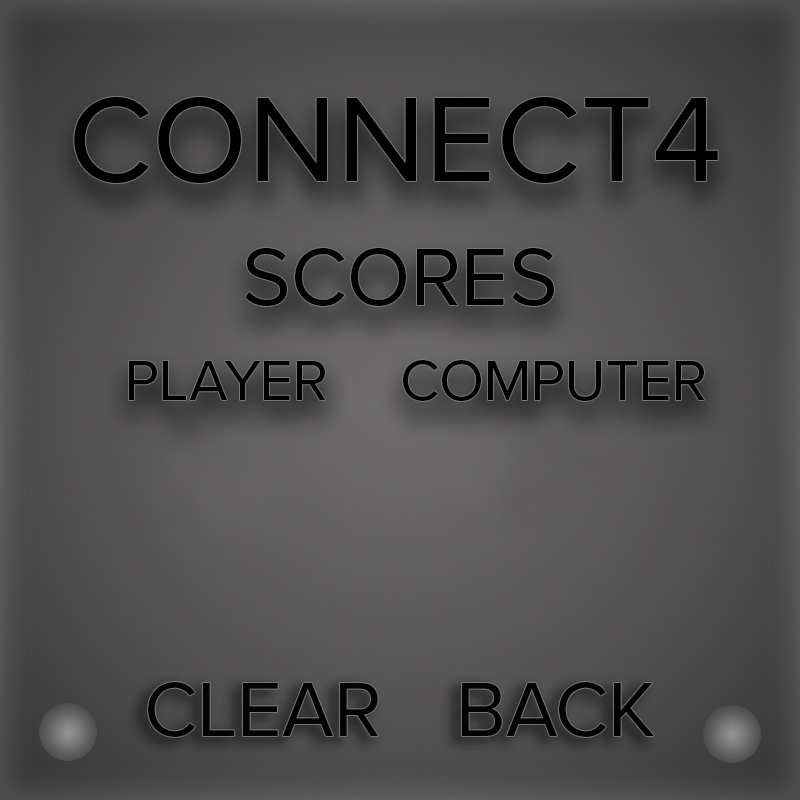
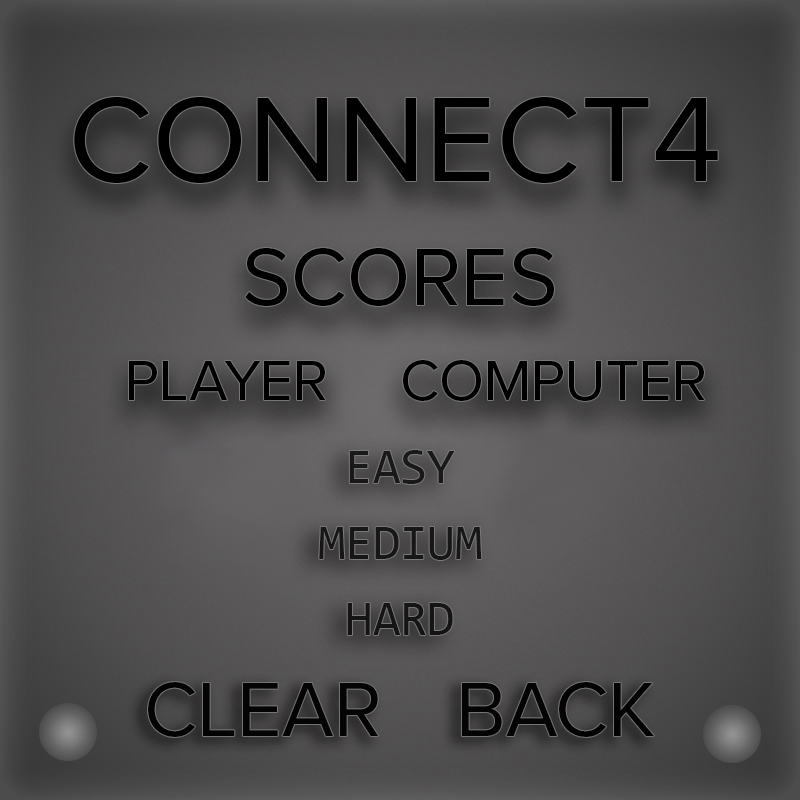
Graphic Update
Overhaul to the number output and updated score screen image.

Changed region(s): [[0.375, 0.6562, 0.625, 0.7188], [0.4062, 0.75, 0.5625, 0.8125], [0.4062, 0.5625, 0.5625, 0.625]]

diff --git a/201Project/src/ScorePanel.java b/201Project/src/ScorePanel.java
@@ -26,62 +26,122 @@ public class ScorePanel extends JLayeredPane {
 		
 		int[] scoreArray = Score.scoreArray();
 		
-		JLabel easyWins = new JLabel(Integer.toString(scoreArray[0]));
-		easyWins.setBounds(200, 410, 75, 75);
-		easyWins.setFont(new Font("Serif", Font.BOLD, 70));
-		easyWins.setForeground(Color.BLACK);
-		//printPlayerScore.setOpaque(true);
-		this.add(easyWins, JLayeredPane.DRAG_LAYER);
+		//Easy printout -------------------------------------------------------------
+		if(Integer.toString(scoreArray[0]).length() == 1){
+			JLabel printEasyWins = new JLabel(new ImageIcon("GUI_nums/" + Integer.toString(scoreArray[0]) + ".png"));
+			printEasyWins.setBounds(190, 430, 75, 75);
+			//printPlayerScore.setOpaque(true);
+			this.add(printEasyWins, JLayeredPane.DRAG_LAYER);
+		}
+		else if(Integer.toString(scoreArray[0]).length() == 2){
+			JLabel printEasyWins = new JLabel(new ImageIcon("GUI_nums/" + Integer.toString(scoreArray[0]).charAt(0) + ".png"));
+			printEasyWins.setBounds(170, 430, 75, 75);
+			//printPlayerScore.setOpaque(true);
+			this.add(printEasyWins, JLayeredPane.DRAG_LAYER);
+			
+			JLabel printEasyWins2 = new JLabel(new ImageIcon("GUI_nums/" + Integer.toString(scoreArray[0]).charAt(1) + ".png"));
+			printEasyWins2.setBounds(205, 430, 75, 75);
+			//printPlayerScore.setOpaque(true);
+			this.add(printEasyWins2, JLayeredPane.DRAG_LAYER);
+		}
+		else System.err.println("given player score not the correct length!");
 		
-		JLabel easyLosses = new JLabel(Integer.toString(scoreArray[1]));
-		easyLosses.setBounds(530, 410, 75, 75);
-		easyLosses.setFont(new Font("Serif", Font.BOLD, 70));
-		easyLosses.setForeground(Color.BLACK);
-		this.add(easyLosses, JLayeredPane.DRAG_LAYER);
+		if(Integer.toString(scoreArray[1]).length() == 1){
+			JLabel printEasyLosses = new JLabel(new ImageIcon("GUI_nums/" + Integer.toString(scoreArray[1]) + ".png"));
+			printEasyLosses.setBounds(520, 430, 75, 75);
+			//printPlayerScore.setOpaque(true);
+			this.add(printEasyLosses, JLayeredPane.DRAG_LAYER);
+		}
+		else if(Integer.toString(scoreArray[0]).length() == 2){
+			JLabel printEasyLosses = new JLabel(new ImageIcon("GUI_nums/" + Integer.toString(scoreArray[1]).charAt(0) + ".png"));
+			printEasyLosses.setBounds(505, 430, 75, 75);
+			//printPlayerScore.setOpaque(true);
+			this.add(printEasyLosses, JLayeredPane.DRAG_LAYER);
+			
+			JLabel printEasyLosses2 = new JLabel(new ImageIcon("GUI_nums/" + Integer.toString(scoreArray[1]).charAt(1) + ".png"));
+			printEasyLosses2.setBounds(540, 430, 75, 75);
+			//printPlayerScore.setOpaque(true);
+			this.add(printEasyLosses2, JLayeredPane.DRAG_LAYER);
+		}
+		else System.err.println("given player score not the correct length!");
 		
-		JLabel medWins = new JLabel(Integer.toString(scoreArray[2]));
-		medWins.setBounds(200, 480, 75, 75);
-		medWins.setFont(new Font("Serif", Font.BOLD, 70));
-		medWins.setForeground(Color.BLACK);
-		//printPlayerScore.setOpaque(true);
-		this.add(medWins, JLayeredPane.DRAG_LAYER);
+		//Medium printout -------------------------------------------------------------
+		if(Integer.toString(scoreArray[2]).length() == 1){
+			JLabel printMedWins = new JLabel(new ImageIcon("GUI_nums/" + Integer.toString(scoreArray[2]) + ".png"));
+			printMedWins.setBounds(190, 505, 75, 75);
+			//printPlayerScore.setOpaque(true);
+			this.add(printMedWins, JLayeredPane.DRAG_LAYER);
+		}
+		else if(Integer.toString(scoreArray[2]).length() == 2){
+			JLabel printMedWins = new JLabel(new ImageIcon("GUI_nums/" + Integer.toString(scoreArray[2]).charAt(0) + ".png"));
+			printMedWins.setBounds(170, 505, 75, 75);
+			//printPlayerScore.setOpaque(true);
+			this.add(printMedWins, JLayeredPane.DRAG_LAYER);
+			
+			JLabel printMedWins2 = new JLabel(new ImageIcon("GUI_nums/" + Integer.toString(scoreArray[2]).charAt(1) + ".png"));
+			printMedWins2.setBounds(205, 505, 75, 75);
+			//printPlayerScore.setOpaque(true);
+			this.add(printMedWins2, JLayeredPane.DRAG_LAYER);
+		}
+		else System.err.println("given player score not the correct length!");
 		
-		JLabel medLosses = new JLabel(Integer.toString(scoreArray[3]));
-		medLosses.setBounds(530, 480, 75, 75);
-		medLosses.setFont(new Font("Serif", Font.BOLD, 70));
-		medLosses.setForeground(Color.BLACK);
-		this.add(medLosses, JLayeredPane.DRAG_LAYER);
+		if(Integer.toString(scoreArray[3]).length() == 1){
+			JLabel printEasyLosses = new JLabel(new ImageIcon("GUI_nums/" + Integer.toString(scoreArray[3]) + ".png"));
+			printEasyLosses.setBounds(520, 505, 75, 75);
+			//printPlayerScore.setOpaque(true);
+			this.add(printEasyLosses, JLayeredPane.DRAG_LAYER);
+		}
+		else if(Integer.toString(scoreArray[3]).length() == 2){
+			JLabel printEasyLosses = new JLabel(new ImageIcon("GUI_nums/" + Integer.toString(scoreArray[3]).charAt(0) + ".png"));
+			printEasyLosses.setBounds(505, 505, 75, 75);
+			//printPlayerScore.setOpaque(true);
+			this.add(printEasyLosses, JLayeredPane.DRAG_LAYER);
+			
+			JLabel printEasyLosses2 = new JLabel(new ImageIcon("GUI_nums/" + Integer.toString(scoreArray[3]).charAt(1) + ".png"));
+			printEasyLosses2.setBounds(540, 505, 75, 75);
+			//printPlayerScore.setOpaque(true);
+			this.add(printEasyLosses2, JLayeredPane.DRAG_LAYER);
+		}
+		else System.err.println("given player score not the correct length!");
 		
-		JLabel hardWins = new JLabel(Integer.toString(scoreArray[4]));
-		hardWins.setBounds(200, 550, 75, 75);
-		hardWins.setFont(new Font("Serif", Font.BOLD, 70));
-		hardWins.setForeground(Color.BLACK);
-		//printPlayerScore.setOpaque(true);
-		this.add(hardWins, JLayeredPane.DRAG_LAYER);
+		//Hard printout -------------------------------------------------------------
+		if(Integer.toString(scoreArray[4]).length() == 1){
+			JLabel printHardWins = new JLabel(new ImageIcon("GUI_nums/" + Integer.toString(scoreArray[4]) + ".png"));
+			printHardWins.setBounds(190, 580, 75, 75);
+			//printPlayerScore.setOpaque(true);
+			this.add(printHardWins, JLayeredPane.DRAG_LAYER);
+		}
+		else if(Integer.toString(scoreArray[4]).length() == 2){
+			JLabel printHardWins = new JLabel(new ImageIcon("GUI_nums/" + Integer.toString(scoreArray[4]).charAt(0) + ".png"));
+			printHardWins.setBounds(170, 580, 75, 75);
+			//printPlayerScore.setOpaque(true);
+			this.add(printHardWins, JLayeredPane.DRAG_LAYER);
+			
+			JLabel printHardWins2 = new JLabel(new ImageIcon("GUI_nums/" + Integer.toString(scoreArray[4]).charAt(1) + ".png"));
+			printHardWins2.setBounds(205, 580, 75, 75);
+			//printPlayerScore.setOpaque(true);
+			this.add(printHardWins2, JLayeredPane.DRAG_LAYER);
+		}
+		else System.err.println("given player score not the correct length!");
 		
-		JLabel hardLosses = new JLabel(Integer.toString(scoreArray[5]));
-		hardLosses.setBounds(530, 550, 75, 75);
-		hardLosses.setFont(new Font("Serif", Font.BOLD, 70));
-		hardLosses.setForeground(Color.BLACK);
-		this.add(hardLosses, JLayeredPane.DRAG_LAYER);
-		
-		JLabel easy = new JLabel("E");
-		easy.setBounds(362, 406, 75, 75);
-		easy.setFont(new Font("Serif", Font.BOLD, 70));
-		easy.setForeground(Color.BLACK);
-		this.add(easy, JLayeredPane.DRAG_LAYER);
-		
-		JLabel medium = new JLabel("M");
-		medium.setBounds(351, 480, 75, 75);
-		medium.setFont(new Font("Serif", Font.BOLD, 70));
-		medium.setForeground(Color.BLACK);
-		this.add(medium, JLayeredPane.DRAG_LAYER);
-		
-		JLabel hard = new JLabel("H");
-		hard.setBounds(357, 550, 75, 75);
-		hard.setFont(new Font("Serif", Font.BOLD, 70));
-		hard.setForeground(Color.BLACK);
-		this.add(hard, JLayeredPane.DRAG_LAYER);
+		if(Integer.toString(scoreArray[5]).length() == 1){
+			JLabel printEasyLosses = new JLabel(new ImageIcon("GUI_nums/" + Integer.toString(scoreArray[5]) + ".png"));
+			printEasyLosses.setBounds(520, 580, 75, 75);
+			//printPlayerScore.setOpaque(true);
+			this.add(printEasyLosses, JLayeredPane.DRAG_LAYER);
+		}
+		else if(Integer.toString(scoreArray[5]).length() == 2){
+			JLabel printEasyLosses = new JLabel(new ImageIcon("GUI_nums/" + Integer.toString(scoreArray[5]).charAt(0) + ".png"));
+			printEasyLosses.setBounds(505, 580, 75, 75);
+			//printPlayerScore.setOpaque(true);
+			this.add(printEasyLosses, JLayeredPane.DRAG_LAYER);
+			
+			JLabel printEasyLosses2 = new JLabel(new ImageIcon("GUI_nums/" + Integer.toString(scoreArray[5]).charAt(1) + ".png"));
+			printEasyLosses2.setBounds(540, 580, 75, 75);
+			//printPlayerScore.setOpaque(true);
+			this.add(printEasyLosses2, JLayeredPane.DRAG_LAYER);
+		}
+		else System.err.println("given player score not the correct length!");
 		
 		JButton clearButton = new JButton("");
 		clearButton.setBounds(145,673,240,73);

diff --git a/201Project/src/PlayPanel.java b/201Project/src/PlayPanel.java
@@ -56,20 +56,48 @@ public class PlayPanel extends JLayeredPane {
 		logic= new GameLogic(AI);
 		playerScore=Score.getScore(AIDifficulty, true);
 		AIScore=Score.getScore(AIDifficulty, false);
-		//Prints scores for current difficulty
-		JLabel printPlayerScore = new JLabel(Integer.toString(playerScore));
-		printPlayerScore.setBounds(308, 16, 75, 75);
-		printPlayerScore.setFont(new Font("Serif", Font.BOLD, 70));
-		printPlayerScore.setForeground(Color.BLACK);
-		//printPlayerScore.setOpaque(true);
-		this.add(printPlayerScore, JLayeredPane.DRAG_LAYER);
 		
-		JLabel printAIScore = new JLabel(Integer.toString(AIScore));
-		printAIScore.setBounds(713, 16, 75, 75);
-		printAIScore.setFont(new Font("Serif", Font.BOLD, 70));
-		printAIScore.setForeground(Color.BLACK);
-		this.add(printAIScore, JLayeredPane.DRAG_LAYER);
-		
+		//Print out player score with images of nums
+				if(Integer.toString(playerScore).length() == 1){
+					JLabel printPlayerScore = new JLabel(new ImageIcon("GUI_nums/" + Integer.toString(playerScore) + ".png"));
+					printPlayerScore.setBounds(295, 20, 75, 75);
+					//printPlayerScore.setOpaque(true);
+					this.add(printPlayerScore, JLayeredPane.DRAG_LAYER);
+				}
+				else if(Integer.toString(playerScore).length() == 2){
+					JLabel printPlayerScore = new JLabel(new ImageIcon("GUI_nums/" + Integer.toString(playerScore).charAt(0) + ".png"));
+					printPlayerScore.setBounds(285, 20, 75, 75);
+					//printPlayerScore.setOpaque(true);
+					this.add(printPlayerScore, JLayeredPane.DRAG_LAYER);
+					
+					JLabel printPlayerScore2 = new JLabel(new ImageIcon("GUI_nums/" + Integer.toString(playerScore).charAt(1) + ".png"));
+					printPlayerScore2.setBounds(322, 20, 75, 75);
+					//printPlayerScore.setOpaque(true);
+					this.add(printPlayerScore2, JLayeredPane.DRAG_LAYER);
+				}
+				else System.err.println("given player score not the correct length!");
+			
+				//Print out AI score with images of nums
+				if(Integer.toString(AIScore).length() == 1){
+					JLabel printAIScore = new JLabel(new ImageIcon("GUI_nums/" + Integer.toString(AIScore) + ".png"));
+					printAIScore.setBounds(700, 20, 75, 75);
+					//printPlayerScore.setOpaque(true);
+					this.add(printAIScore, JLayeredPane.DRAG_LAYER);
+				}
+				else if(Integer.toString(AIScore).length() == 2){
+					JLabel printAIScore = new JLabel(new ImageIcon("GUI_nums/" + Integer.toString(AIScore).charAt(0) + ".png"));
+					printAIScore.setBounds(691, 20, 75, 75);
+					//printPlayerScore.setOpaque(true);
+					this.add(printAIScore, JLayeredPane.DRAG_LAYER);
+					
+					JLabel printAIScore2 = new JLabel(new ImageIcon("GUI_nums/" + Integer.toString(AIScore).charAt(1) + ".png"));
+					printAIScore2.setBounds(728, 20, 75, 75);
+					//printPlayerScore.setOpaque(true);
+					this.add(printAIScore2, JLayeredPane.DRAG_LAYER);
+				}
+				else System.err.println("given AI score not the correct length!");
+				
+				
 		JButton backButton=new JButton("");
 		backButton.setBounds(300,720,200,61);
 		backButton.setOpaque(false);
